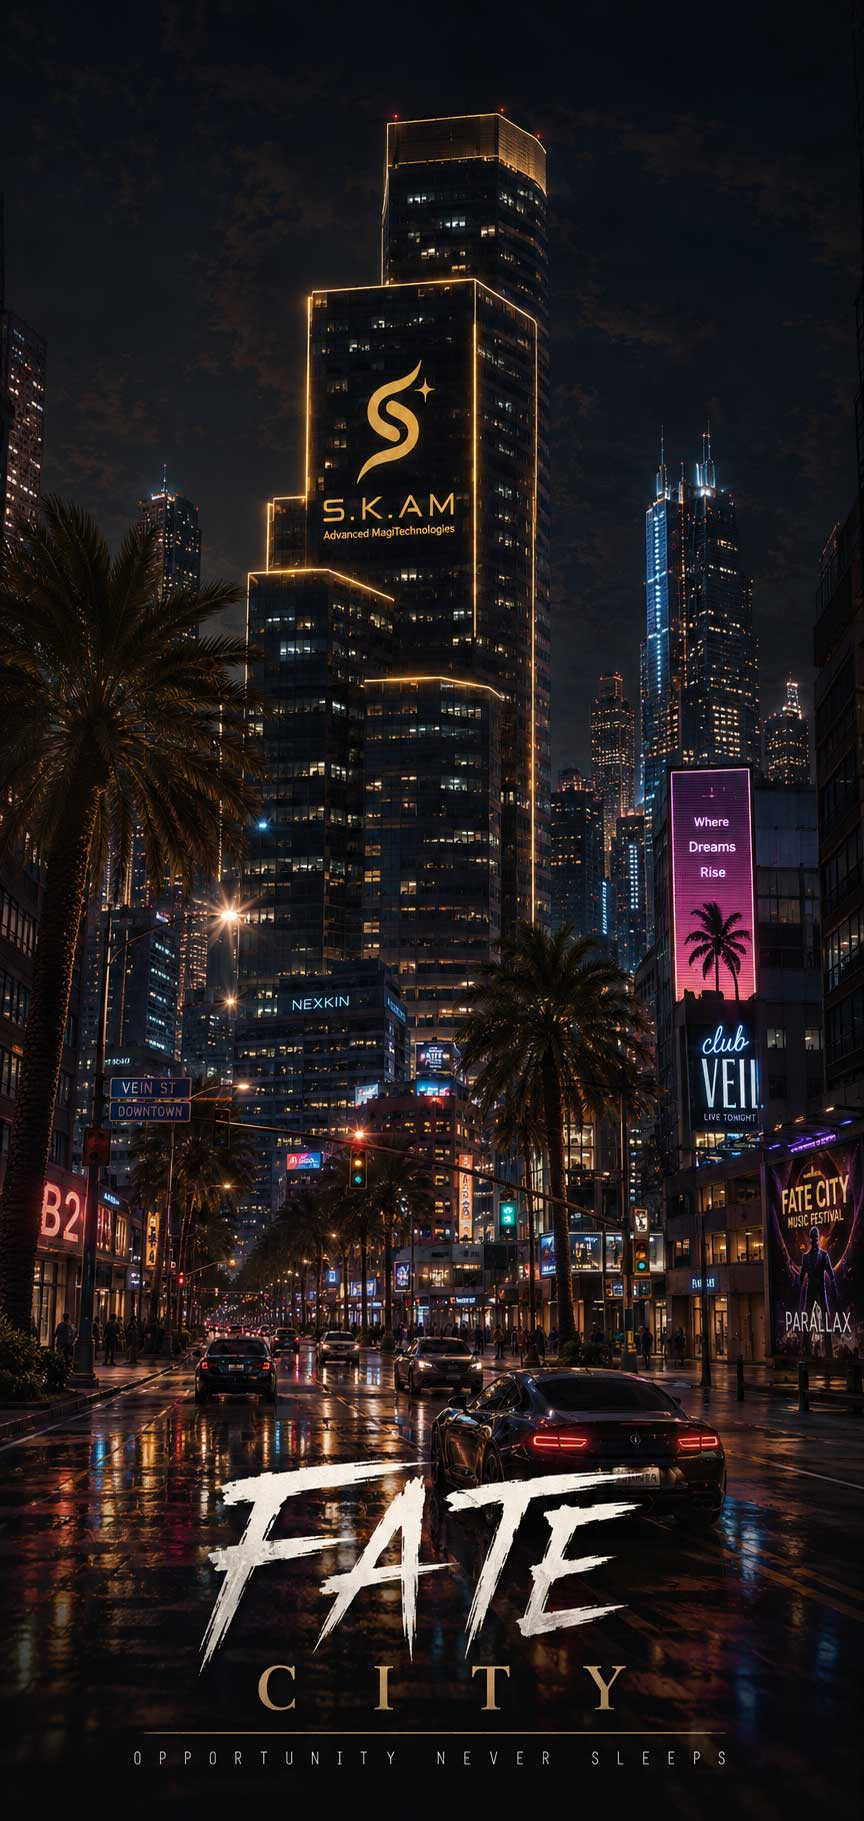
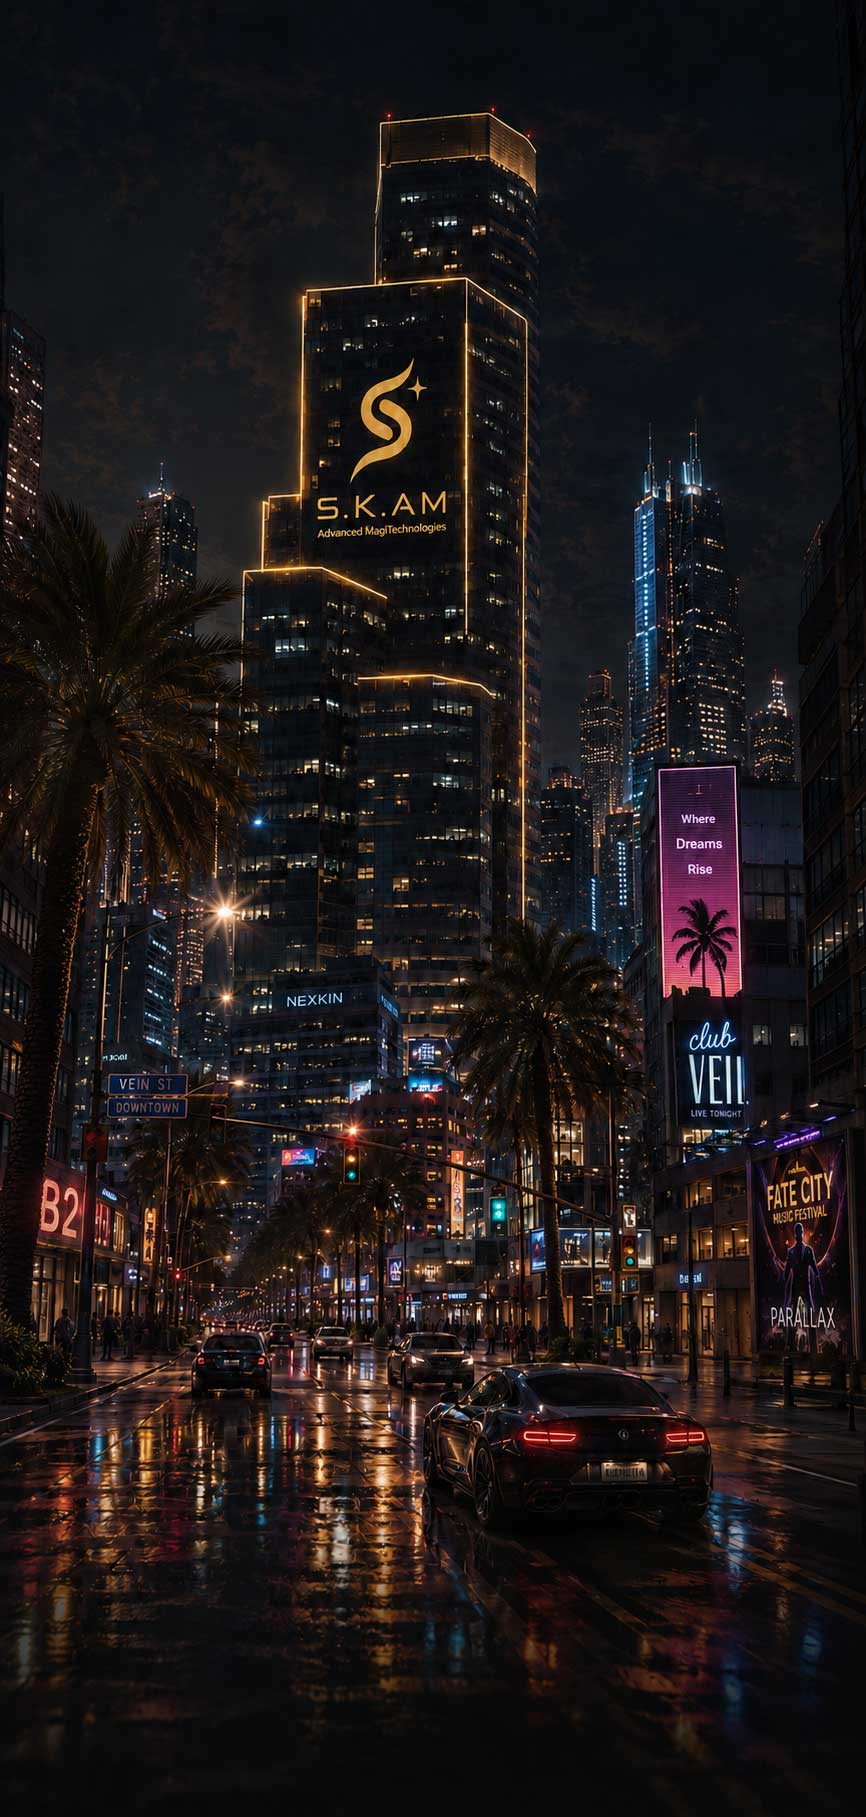
feat: implement gyroscope parallax effect for wallpaper and update background image

diff --git a/src/routes/home/+page.svelte b/src/routes/home/+page.svelte
@@ -124,6 +124,38 @@
   let timerFetchPoll;
   let rafId;
 
+  // ── Gyroscope parallax ────────────────────────────────────────────────────
+  let wallpaperEl;
+  let _orientationHandler = null;
+
+  function _setupParallax() {
+    if (!wallpaperEl) return;
+    function handler(e) {
+      const gx = Math.max(-25, Math.min(25, e.gamma ?? 0));
+      const gy = Math.max(-25, Math.min(25, (e.beta ?? 90) - 90));
+      wallpaperEl.style.transform = `scale(1.05) translate(${(gx / 25) * 14}px, ${(gy / 25) * 10}px)`;
+    }
+    _orientationHandler = handler;
+    window.addEventListener('deviceorientation', handler, { passive: true });
+  }
+
+  async function _initParallax() {
+    if (!browser) return;
+    if (typeof DeviceOrientationEvent !== 'undefined' &&
+        typeof DeviceOrientationEvent.requestPermission === 'function') {
+      // iOS 13+ requires a user gesture to grant permission
+      document.addEventListener('touchstart', async function onFirstTouch() {
+        document.removeEventListener('touchstart', onFirstTouch);
+        try {
+          const perm = await DeviceOrientationEvent.requestPermission();
+          if (perm === 'granted') _setupParallax();
+        } catch { /* denied */ }
+      }, { once: true, passive: true });
+    } else {
+      _setupParallax();
+    }
+  }
+
   function getLastSeenMap() {
     try { return JSON.parse(localStorage.getItem(LAST_SEEN_KEY) ?? '{}'); }
     catch { return {}; }
@@ -242,6 +274,7 @@
     oncePollInterval = visibilityAwareInterval(pollOnce, 7000);
     fetchTimerState();
     timerFetchPoll = visibilityAwareInterval(fetchTimerState, 5000);
+    _initParallax();
   });
 
   onDestroy(() => {
@@ -250,12 +283,15 @@
     if (timerFetchPoll) timerFetchPoll();
     if (rafId) cancelAnimationFrame(rafId);
     clearTimeout(toastTimer);
+    if (_orientationHandler) window.removeEventListener('deviceorientation', _orientationHandler);
   });
 </script>
 
 <svelte:head>
   <title>Fate City: 1999 — Wire</title>
 </svelte:head>
+
+<div class="wallpaper" bind:this={wallpaperEl} style="background-image: url('{base}/images/phonebg.jpg')" aria-hidden="true"></div>
 
 <wire-status-bar jail layout="flex"></wire-status-bar>
 
@@ -710,6 +746,19 @@
     pointer-events: auto;
   }
 
+  /* Wallpaper */
+  .wallpaper {
+    position: fixed;
+    inset: 0;
+    background-size: cover;
+    background-position: center;
+    background-repeat: no-repeat;
+    filter: blur(10px) brightness(0.75);
+    transform: scale(1.05);
+    z-index: -1;
+    will-change: transform;
+  }
+
   /* Home screen wrap */
   .hs-wrap {
     flex: 1;
@@ -780,7 +829,9 @@
     margin: 0 auto;
     border: 1px solid rgba(201, 162, 39, 0.35);
     border-radius: 16px;
-    background: rgba(255, 255, 255, 0.025);
+    background: rgba(10, 14, 28, 0.48);
+    backdrop-filter: blur(18px) saturate(1.4);
+    -webkit-backdrop-filter: blur(18px) saturate(1.4);
     display: flex;
     align-items: center;
     justify-content: center;
@@ -877,8 +928,9 @@
     font-size: 9px;
     letter-spacing: 1.1px;
     text-transform: uppercase;
-    color: #b8902f;
+    color: #e8d9a0;
     text-align: center;
+    text-shadow: 0 1px 4px rgba(0, 0, 0, 0.8);
   }
 
   /* Page dots */
@@ -888,6 +940,7 @@
     gap: 7px;
     margin-top: 22px;
     margin-bottom: 8px;
+    filter: drop-shadow(0 1px 3px rgba(0,0,0,0.7));
   }
   .hs-dot {
     width: 6px; height: 6px;
